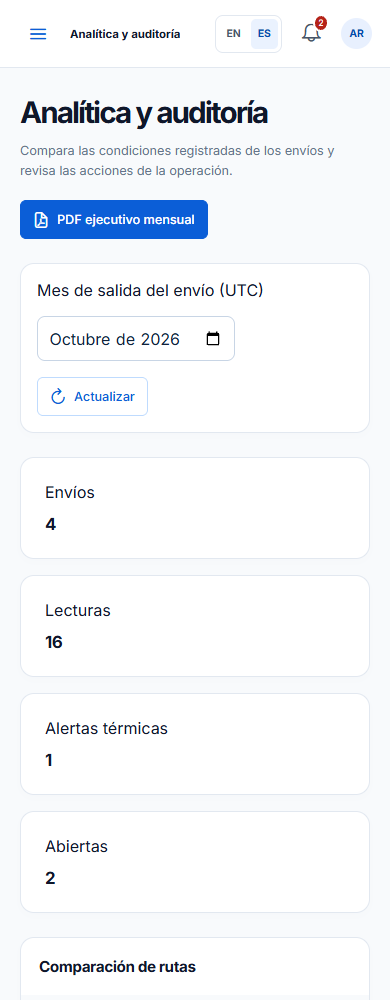
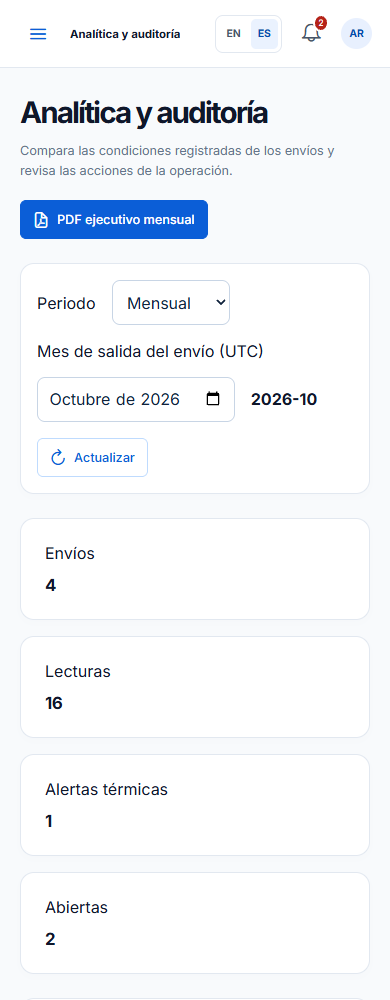
docs(report): align Sprint 4 scope and publication evidence

Changed region(s): [[0.0923, 0.279, 0.8308, 0.992]]

diff --git a/README.md b/README.md
@@ -3796,7 +3796,7 @@ Los datos del corte TB1 se conservan como antecedentes históricos, separados de
 
 ### 5.2.4. Sprint 4 — TB2
 
-El incremento del Sprint 4 amplía la supervisión del transporte con análisis mensual, bitácora operativa, informes y gestión de accesos. El corte del 27/11/2026 identifica el código, las pruebas y su publicación. Las fichas audiovisuales de AV2 se conservan como antecedentes de esa entrega.
+El incremento del Sprint 4 amplía la supervisión del transporte con análisis mensual y trimestral, bitácora operativa, informes y gestión de accesos. El corte del 27/11/2026 identifica el código, las pruebas y su publicación. Las fichas audiovisuales de AV2 se conservan como antecedentes de esa entrega.
 
 #### 5.2.4.1. Sprint Planning 4
 
@@ -3816,7 +3816,7 @@ El incremento del Sprint 4 amplía la supervisión del transporte con análisis 
 
 | Aspecto | Aporte registrado | Evidencia |
 | --- | --- | --- |
-| Desarrollo y pruebas del incremento | Alexander Sebastián Atauje Barreto. | [PR de API](https://github.com/upc-pre-202620-1asi0730-8088-FrioTrackk/friotrack-api/pull/2), [PR de frontend](https://github.com/upc-pre-202620-1asi0730-8088-FrioTrackk/friotrack-frontend/pull/7) y pruebas del corte. |
+| Desarrollo y pruebas del incremento | Alexander Sebastián Atauje Barreto. | [PR de API](https://github.com/upc-pre-202620-1asi0730-8088-FrioTrackk/friotrack-api/pull/3), [PR de frontend](https://github.com/upc-pre-202620-1asi0730-8088-FrioTrackk/friotrack-frontend/pull/8) y pruebas del corte. |
 | Reporte y trazabilidad | Alexander Sebastián Atauje Barreto. | Sprint 4, matriz de cobertura y referencias de implementación. |
 | Entrevistas y comunicación de AV2 | Aportes históricos de Alexander, Joaquín, Rodrigo y Nayely. | Fichas de 5.3 y recursos de 5.4–5.5, identificados como AV2. |
 
@@ -3828,17 +3828,17 @@ El [backlog en CSV](assets/annexes/sprint4-backlog.csv) relaciona tareas, estima
 
 | Story Id | Task Id | Task Title | Estimation (Hours) | Assigned To | Status | Evidencia |
 | --- | --- | --- | ---: | --- | --- | --- |
-| US12 / US29 | S4-T01 | Consultar indicadores mensuales por ruta | 8 | Alexander Sebastián Atauje Barreto | Done | Analítica y auditoría |
+| US12 / US29 / TS01 | S4-T01 | Consultar periodos y filtrar envíos | 8 | Alexander Sebastián Atauje Barreto | Done | Analítica y auditoría |
 | US28 / US11 / TS06 | S4-T02 | Generar informes de la aplicación | 8 | Alexander Sebastián Atauje Barreto | Done | Informes autenticados |
-| US13 | S4-T03 | Consultar bitácora operativa | 6 | Alexander Sebastián Atauje Barreto | Done | Bitácora por mes |
+| US13 | S4-T03 | Consultar bitácora operativa | 6 | Alexander Sebastián Atauje Barreto | Done | Bitácora por periodo y usuario |
 | TS04 / US05 | S4-T04 | Procesar lotes de lecturas | 8 | Alexander Sebastián Atauje Barreto | Done | Pruebas de atomicidad |
 | US22 | S4-T05 | Administrar acceso de cuentas | 8 | Alexander Sebastián Atauje Barreto | Done | Pruebas de identidad y aislamiento |
-| US21 | S4-T06 | Implementar recuperación segura | 8 | Alexander Sebastián Atauje Barreto | Done | Pruebas de recuperación |
+| US21 / US25 | S4-T06 | Implementar recuperación y receptor comercial | 8 | Alexander Sebastián Atauje Barreto | Done | Pruebas de recuperación |
 | US12 / US29 / US13 | S4-T07 | Integrar pantalla de analítica | 6 | Alexander Sebastián Atauje Barreto | Done | Navegador ES/EN |
 | US22 | S4-T08 | Integrar administración de cuentas | 4 | Alexander Sebastián Atauje Barreto | Done | Navegador por perfil |
 | US21 | S4-T09 | Integrar recuperación de acceso | 4 | Alexander Sebastián Atauje Barreto | Done | Navegador y gateway HTTP |
-| TS07 | S4-T10 | Documentar controllers y contratos | 4 | Alexander Sebastián Atauje Barreto | Done | Contrato OpenAPI |
-| Calidad | S4-T11 | Verificar reglas y recorrido integrado | 8 | Alexander Sebastián Atauje Barreto | Done | 21 pruebas C#, 59 PostgreSQL, 37 frontend y 11 de navegador |
+| TS07 / TS03 | S4-T10 | Completar contratos y baja lógica de recursos | 4 | Alexander Sebastián Atauje Barreto | Done | Contrato OpenAPI |
+| Calidad | S4-T11 | Verificar reglas y recorrido integrado | 8 | Alexander Sebastián Atauje Barreto | Done | 23 pruebas C#, 71 PostgreSQL, 38 frontend y 15 de navegador |
 | Despliegue | S4-T12 | Publicar el incremento | 8 | Alexander Sebastián Atauje Barreto | Done | [Recibo de publicación](assets/evidence/tb2/deployment.json) |
 | US21 / US25 | S4-T13 | Conectar proveedor de correo | 4 | Equipo BlackStartup | To Do | Proveedor del equipo |
 | Gestión | S4-T14 | Actualizar tablero del sprint | 4 | Equipo BlackStartup | To Do | Trello del equipo |
@@ -3851,12 +3851,12 @@ El [backlog en CSV](assets/annexes/sprint4-backlog.csv) relaciona tareas, estima
 
 #### 5.2.4.4. Development Evidence for Sprint Review
 
-La API 0.3.0 incorpora controllers REST dentro de IAM, Monitoring y Alert and Reporting. Los contratos de comandos y consultas separan modificaciones y lecturas. Se mantienen EF Core/PostgreSQL, los agregados y las 18 tablas existentes. El generador de documentos y el adaptador SMTP implementan puertos de aplicación.
+La API 0.4.0 incorpora controllers REST dentro de IAM, Monitoring, Shipment Management, Commercial Contact y Alert and Reporting. Los contratos de comandos y consultas separan modificaciones y lecturas. Se mantienen EF Core/PostgreSQL, los agregados y las 18 tablas existentes. El generador de documentos y el adaptador SMTP implementan puertos de aplicación.
 
 | Producto | Funciones incorporadas | Fuente |
 | --- | --- | --- |
-| Web Services 0.3.0 | Analítica mensual, bitácora, informes, lotes, cuentas y recuperación. | [Código de API](https://github.com/upc-pre-202620-1asi0730-8088-FrioTrackk/friotrack-api). |
-| SPA 0.3.0 | Analítica y auditoría, acceso de cuentas, recuperación y descargas autorizadas. | [Código de frontend](https://github.com/upc-pre-202620-1asi0730-8088-FrioTrackk/friotrack-frontend). |
+| Web Services 0.4.0 | Analítica mensual y trimestral, filtros, baja lógica, bitácora, informes, lotes, cuentas y correo configurable. | [Código de API](https://github.com/upc-pre-202620-1asi0730-8088-FrioTrackk/friotrack-api). |
+| SPA 0.4.0 | Analítica y auditoría, acceso de cuentas, recuperación y descargas autorizadas. | [Código de frontend](https://github.com/upc-pre-202620-1asi0730-8088-FrioTrackk/friotrack-frontend). |
 | Landing Page | Mantiene los CTA por perfil, los videos publicados y los enlaces de comunidad. | [Landing](https://upc-pre-202620-1asi0730-8088-friotrackk.github.io/friotrack-landing/). |
 
 La [arquitectura y los contratos del Sprint 4](docs/tb2/architecture-and-contracts.md) relacionan los conceptos de clase con las implementaciones y detallan los endpoints. La [matriz de cobertura](docs/tb2/requirements-coverage.csv) distingue implementación, dependencia de configuración y alcance posterior.
@@ -3865,10 +3865,10 @@ La [arquitectura y los contratos del Sprint 4](docs/tb2/architecture-and-contrac
 
 | Comprobación | Resultado del corte | Evidencia |
 | --- | --- | --- |
-| Dominio C# | 21 pruebas aprobadas. | Reglas de estado, rangos, recursos y notificaciones de la API. |
-| Integración PostgreSQL 17 | 59 comprobaciones aprobadas; base local aislada y descartable. | [Recibo de integración](assets/evidence/tb2/postgres-verification.json). |
-| Frontend | 37 pruebas aprobadas de reglas y gateway; build de producción correcto. | Suite `tests/` del frontend. |
-| Navegador con API y PostgreSQL | 11 comprobaciones de perfiles, ES/EN y anchos 390, 768 y 1440. | [Recibo de navegador](assets/evidence/tb2/browser-verification.json). |
+| Dominio C# | 23 pruebas aprobadas. | Reglas de estado, rangos, recursos y notificaciones de la API. |
+| Integración PostgreSQL 17 | 71 comprobaciones aprobadas; base local aislada y descartable. | [Recibo de integración](assets/evidence/tb2/postgres-verification.json). |
+| Frontend | 38 pruebas aprobadas de reglas y gateway; build de producción correcto. | Suite `tests/` del frontend. |
+| Navegador con API y PostgreSQL | 15 comprobaciones de perfiles, ES/EN y anchos 390, 768 y 1440. | [Recibo de navegador](assets/evidence/tb2/browser-verification.json). |
 | Recuperación por correo | Enlace de un uso y vencimiento probados con SMTP local; el envío real depende de la configuración del proveedor. | Comprobaciones de token, sesión y estado no disponible en la suite PostgreSQL. |
 
 ![Analítica del coordinador en el entorno integrado de prueba](assets/evidence/tb2/analytics-coordinator-1440.png)
@@ -3883,7 +3883,7 @@ Las capturas corresponden a pruebas técnicas con datos de demostración. La eva
 
 La documentación interactiva se consulta en [Scalar](https://friotrack-api-bce6db1b.azurewebsites.net/scalar/v1). El [contrato del incremento](docs/tb2/architecture-and-contracts.md#contratos-incorporados) describe los recursos, los permisos y el significado de cada periodo. Los endpoints de recuperación son públicos en OpenAPI; las consultas de información, los informes y la administración de cuentas requieren una sesión autorizada.
 
-La analítica considera envíos con salida en el mes seleccionado en UTC. La bitácora usa el mes del evento. Los promedios se calculan solo sobre lecturas registradas; los intervalos sin muestras no se completan con mediciones inventadas. Los informes identifican su procedencia de demostración.
+La analítica considera envíos con salida en el mes o trimestre seleccionado en UTC. La bitácora filtra el periodo del evento y su usuario, sin duplicar las acciones correctivas. Los promedios se calculan solo sobre lecturas registradas; los intervalos sin muestras no se completan con mediciones inventadas. Los informes identifican su procedencia de demostración.
 
 #### 5.2.4.7. Software Deployment Evidence for Sprint Review
 
@@ -3898,15 +3898,17 @@ La publicación del incremento conserva la base existente y utiliza la configura
 
 La disponibilidad del correo se consulta en `/api/capabilities`. Un proveedor sin configurar se informa como no disponible. Las lecturas y coordenadas siguen siendo de demostración, y la integración del mapa conserva OpenStreetMap y su atribución.
 
-La publicación del 27/11/2026 corresponde a API `55736b4` y SPA `f8eab41`. Se verificaron 20 archivos publicados de la SPA. La configuración y los datos existentes se conservaron.
+La publicación del 27/11/2026 corresponde a API `e8ae81f` y SPA `fb71ed4`. Se verificaron 20 archivos publicados de la SPA. La configuración y los datos existentes se conservaron.
 
 #### 5.2.4.8. Team Collaboration Insights during Sprint
 
-La API y la SPA 0.3.0 están publicadas y se comprobaron con las cuentas de ambos perfiles. El [recibo de despliegue](assets/evidence/tb2/deployment.json) identifica las revisiones y hashes de los artefactos. La [verificación pública](assets/evidence/tb2/public-verification.json) registra seis comprobaciones de navegación y permisos, 36 rutas OpenAPI y el estado real de las capacidades.
+La API y la SPA 0.4.0 están publicadas y se comprobaron con las cuentas de ambos perfiles. El [recibo de despliegue](assets/evidence/tb2/deployment.json) identifica las revisiones y hashes de los artefactos. La [verificación pública](assets/evidence/tb2/public-verification.json) registra 8 comprobaciones de navegación y permisos y 38 rutas OpenAPI y el estado real de las capacidades.
 
 ![Analítica del coordinador en Azure](assets/evidence/tb2/public-analytics-coordinator-1440.png)
 
 ![Analítica del cliente en Azure](assets/evidence/tb2/public-analytics-cargo-client-390.png)
+
+![Consulta trimestral del coordinador en Azure](assets/evidence/tb2/public-quarterly-coordinator.png)
 
 El corte técnico relaciona cambios de API, integración de la SPA, pruebas y reporte con sus commits y PR. La colaboración audiovisual se incorpora mediante la retrospectiva y los testimonios del equipo en sus respectivos registros. Los aportes de otros sprints se conservan en las secciones históricas.
 
@@ -4249,7 +4251,7 @@ La participación documentada comprende la integración técnica, la validación
 
 ## Conclusiones
 
-El Sprint 4 amplía la operación de FríoTrack con comparación mensual de rutas, consulta de acciones e informes, gestión de acceso por empresa y recepción atómica de lotes de demostración. Los casos de prueba verifican que el cliente conserve su alcance asignado y que los cambios de acceso y contraseña revoquen sesiones. La recuperación está implementada y requiere conectar un proveedor para la entrega real de correo.
+El Sprint 4 amplía la operación de FríoTrack con comparación mensual y trimestral de rutas, consulta de acciones e informes, gestión de acceso por empresa y recepción atómica de lotes de demostración. Los casos de prueba verifican que el cliente conserve su alcance asignado y que los cambios de acceso y contraseña revoquen sesiones. La recuperación está implementada y requiere conectar un proveedor para la entrega real de correo.
 
 La arquitectura conserva ASP.NET Core y EF Core/PostgreSQL en los servicios, Vue y PrimeVue en la SPA, y puertos para las integraciones. Los controllers del incremento aplican recursos tipados y contratos separados de comandos y consultas. Los resultados de pruebas son evidencia técnica y se distinguen de la aceptación de los usuarios y de la retrospectiva del equipo.
 

diff --git a/docs/tb2/architecture-and-contracts.md b/docs/tb2/architecture-and-contracts.md
@@ -9,11 +9,11 @@ El incremento mantiene los contenedores independientes de Landing Page, SPA, API
 | Bounded contexts | IAM agrupa acceso y recuperación; Monitoring recibe lecturas; Alert and Reporting consulta métricas, historial e informes. |
 | Entidades, agregados y value objects | `UserAccount`, `Shipment`, `ShipmentMonitoring`, `Alert` y `ThermalRange` conservan estado, identidad e invariantes. |
 | Separación por capas | Domain mantiene reglas; Application coordina casos de uso y define puertos; Infrastructure integra EF Core, SMTP y documentos; Interfaces expone recursos REST. |
-| CQRS | `IAccountSecurityCommandService` e `IAccountAccessCommandService` separan modificaciones de `IAccountAccessQueryService` e `IOperationalQueryService`. |
+| CQRS | `IAccountSecurityCommandService` e `IAccountAccessCommandService` separan modificaciones de `IAccountAccessQueryService` e `IOperationalQueryService` e `IShipmentQueryService`. |
 | Controllers y recursos | Los controllers de cada contexto reciben recursos tipados, validan campos y devuelven los estados HTTP documentados. |
 | Repository y unidad de trabajo | Los repositorios de agregados existentes y el `DbContext` coordinan persistencia; las operaciones de reserva y lotes confirman una transacción o la revierten. |
 | Inyección de dependencias | Los controllers consumen contratos de aplicación; el composition root registra las implementaciones. |
-| Integración externa mediante puertos | `IRecoveryMail` permite configurar SMTP; `IReportDocumentRenderer` separa la representación del informe de su consulta autorizada. |
+| Integración externa mediante puertos | `IRecoveryMail` e `ICommercialContactMail` permiten configurar SMTP; `IReportDocumentRenderer` separa la representación del informe de su consulta autorizada. |
 | EF Core y base relacional | Se conservan las 18 tablas y la migración del incremento anterior. Las nuevas funciones reutilizan `password_reset_tokens`, sesiones e historial. |
 | Pruebas y control de versiones | Casos de dominio, integración con PostgreSQL, navegador, GitFlow, Conventional Commits y versiones semánticas. |
 
@@ -71,7 +71,11 @@ classDiagram
 | Método | Recurso | Regla principal |
 | --- | --- | --- |
 | GET | `/api/analytics/monthly?month=YYYY-MM` | Proyección mensual de los envíos autorizados por su fecha de salida UTC. |
-| GET | `/api/audit?month=YYYY-MM` | Historial operativo y acciones correctivas del mes del evento. |
+| GET | `/api/audit?month=YYYY-MM` | Historial sin duplicar acciones; admite usuario `actor` e intervalo UTC `[from,to)` de hasta 366 días. |
+| GET | `/api/analytics/quarterly?year=2026&quarter=4` | Indicadores de todos los envíos autorizados con salida en ese trimestre. |
+| GET | `/api/shipments` | Filtros combinables `q`, `status`, `vehicleId`, `active`, `from` y `to`. |
+| DELETE | `/api/vehicles/{id}`, `/api/drivers/{id}`, `/api/sensors/{id}` | Baja lógica idempotente; preserva historial y rechaza reservas activas. |
+| POST | `/api/commercial-contacts` | Solicitud validada al buzón fijo del equipo; requiere SMTP y se limita a 3/minuto/IP. |
 | GET | `/api/reports/monthly/pdf?month=YYYY-MM` | Resumen ejecutivo con periodo, rutas, lecturas y procedencia. |
 | GET | `/api/reports/{id}/pdf` | Copia persistida de trazabilidad; aplica los permisos del envío. |
 | POST | `/api/shipments/{id}/readings/batch` | 1–100 lecturas ordenadas; validación y confirmación atómica. |
@@ -81,4 +85,4 @@ classDiagram
 | POST | `/api/auth/reset-password` | Token de un solo uso, 15 minutos y revocación de sesiones. |
 | GET | `/api/capabilities` | Disponibilidad de funciones; no contiene secretos de configuración. |
 
-La especificación completa se consulta en [Scalar](https://friotrack-api-bce6db1b.azurewebsites.net/scalar/v1). El proveedor de correo debe configurarse para activar el envío real. La bitácora es operativa y no representa logs de infraestructura; las métricas mensuales no se presentan como analítica trimestral ni como certificación de una cadena de frío física.
+La especificación completa se consulta en [Scalar](https://friotrack-api-bce6db1b.azurewebsites.net/scalar/v1). El proveedor de correo debe configurarse para activar el envío real. La bitácora es operativa y no representa logs de infraestructura; las métricas mensuales y trimestrales no representan certificación de una cadena de frío física. El trimestre agrega todas las lecturas registradas y evita promediar promedios mensuales redondeados. El reporte PDF ejecutivo corresponde explícitamente al mes elegido.

diff --git a/docs/tb2/README.md b/docs/tb2/README.md
@@ -1,6 +1,6 @@
 # TB2 — Sprint 4
 
-El [informe principal](../../README.md#524-sprint-4--tb2) documenta el objetivo del sprint, el backlog, los productos, las pruebas y la publicación del incremento 0.3.0.
+El [informe principal](../../README.md#524-sprint-4--tb2) documenta el objetivo del sprint, el backlog, los productos, las pruebas y la publicación del incremento 0.4.0.
 
 - [Arquitectura y contratos](architecture-and-contracts.md).
 - [Cobertura de requisitos](requirements-coverage.csv).
